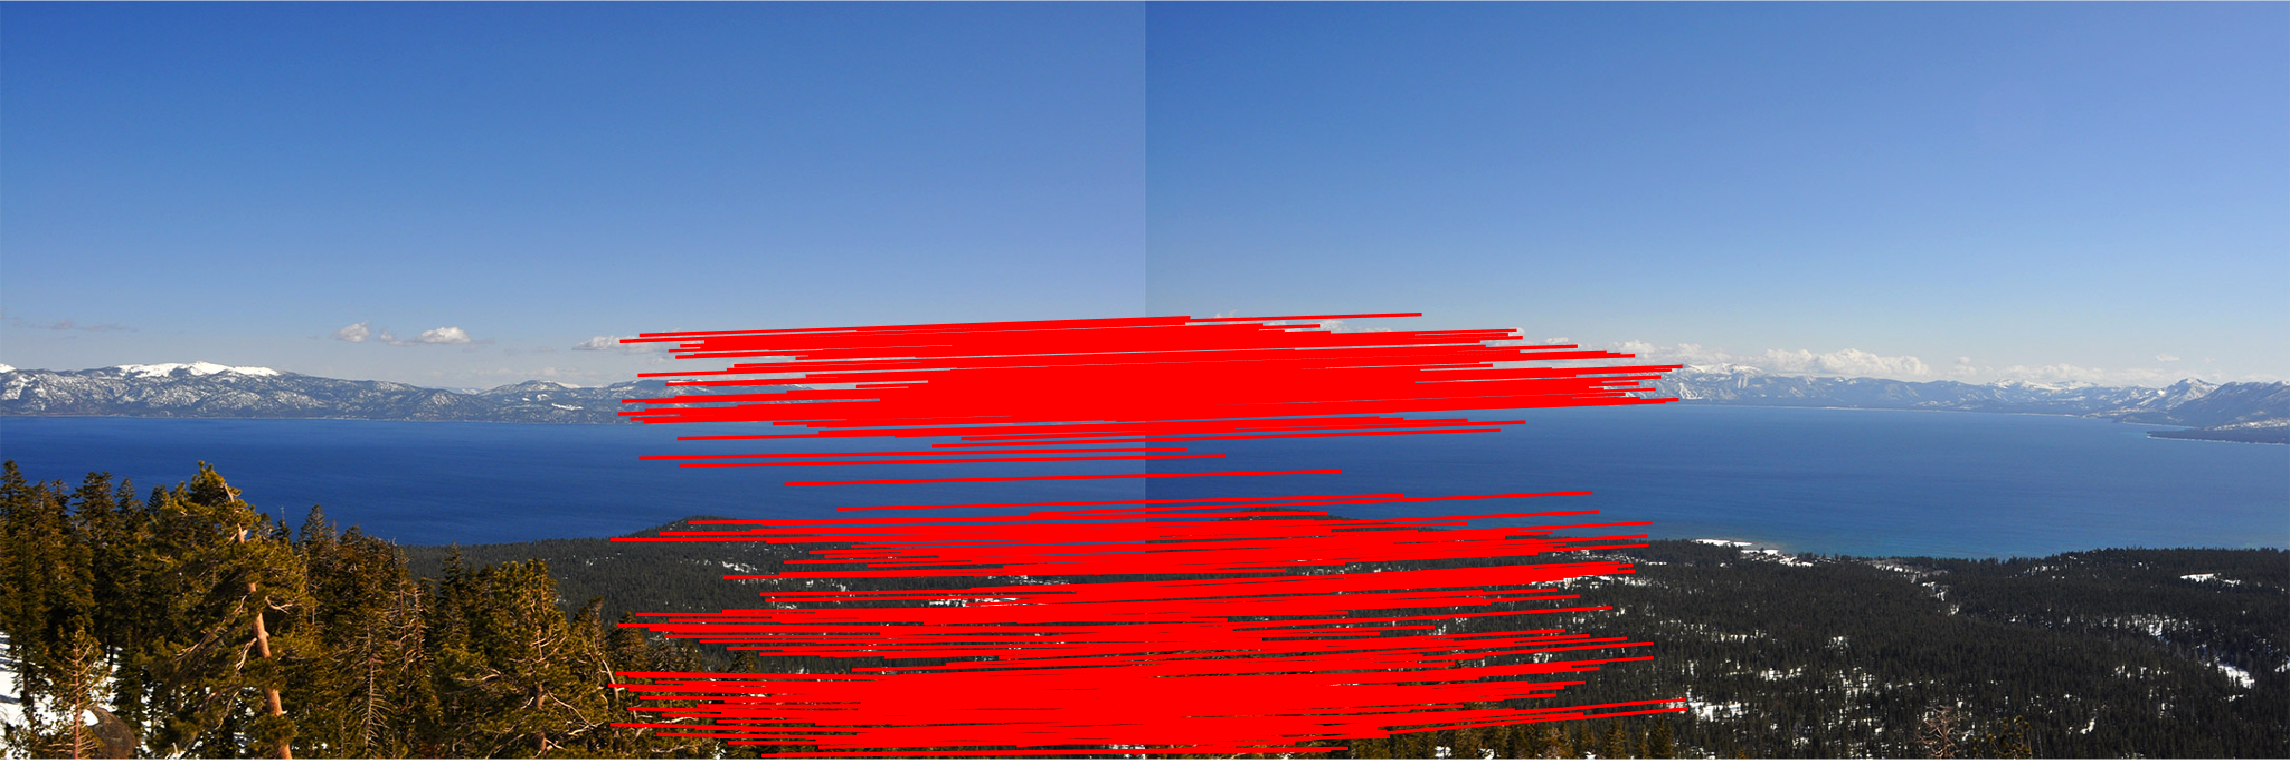
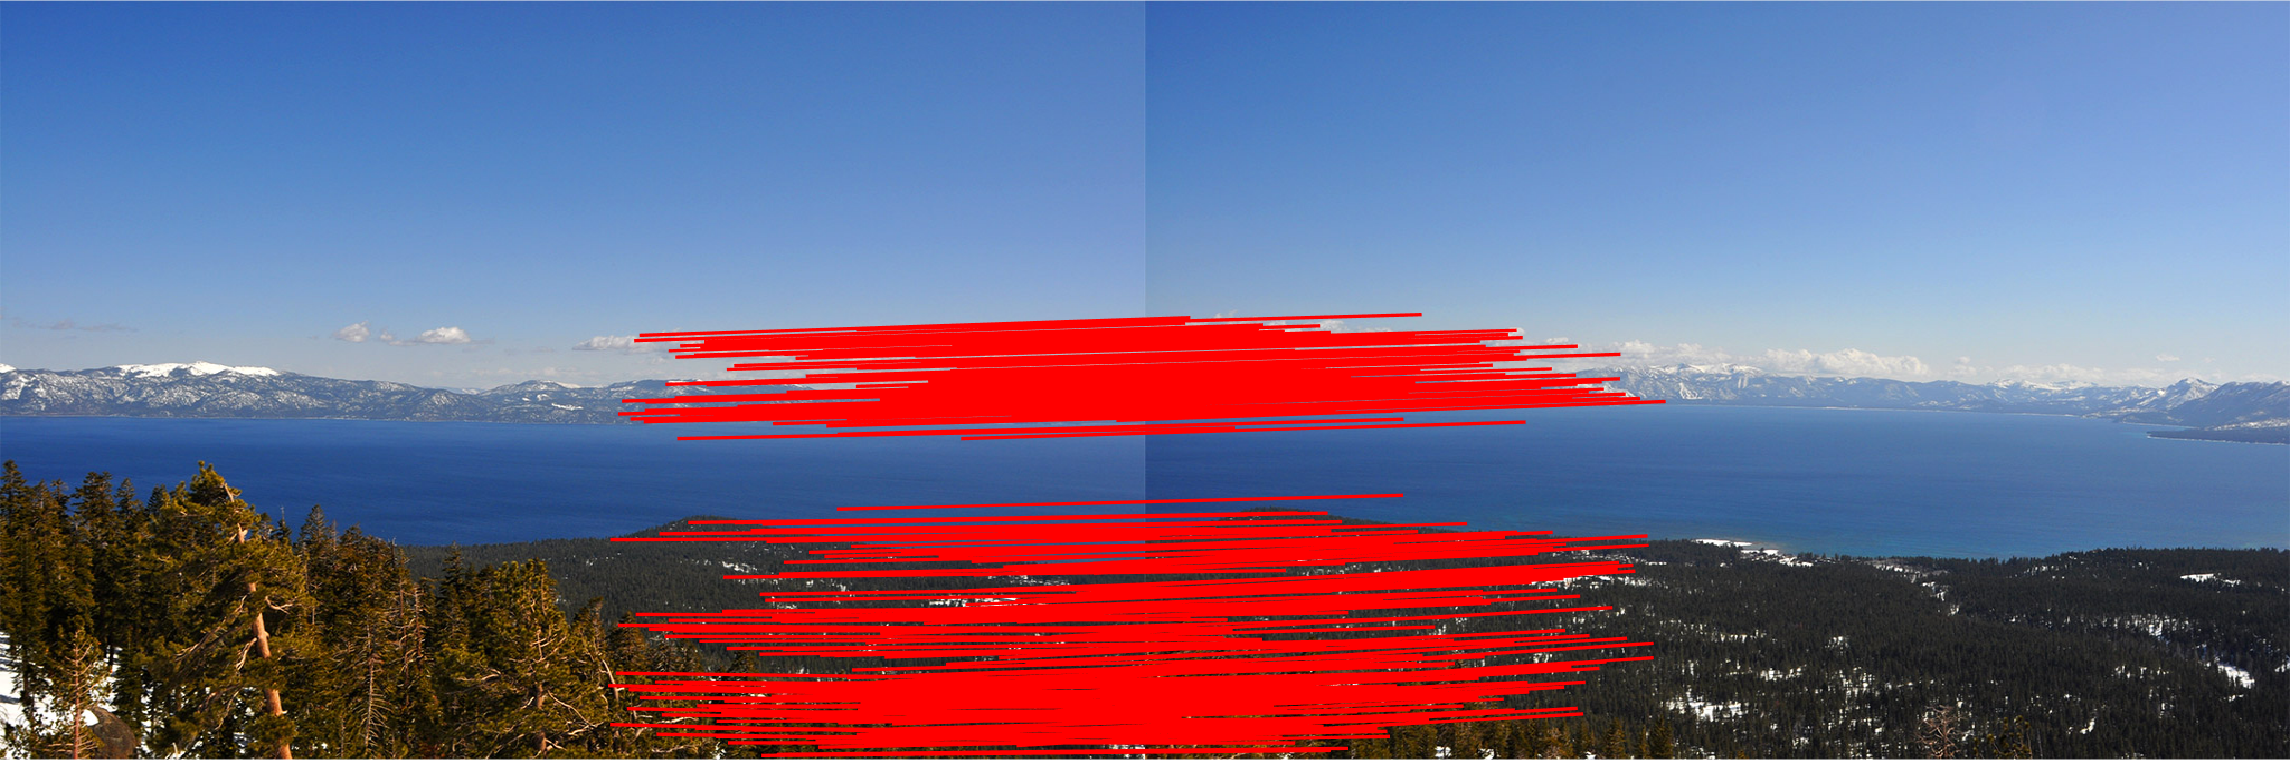
Updated RANSAC parameters to make it faster. Added README

diff --git a/Assignments/HW4/src/computeHomography.m b/Assignments/HW4/src/computeHomography.m
@@ -1,8 +1,5 @@
 function H_3x3 = computeHomography(src_pts_nx2, dest_pts_nx2)
-    % Swap x, y with y, x due to MATLAB convention
-%     src_pts_nx2 = src_pts_nx2(:, [2, 1]);
-%     dest_pts_nx2 = dest_pts_nx2(:, [2, 1]);
-    
+
     sub_col_1to3 = horzcat(src_pts_nx2, ones(4, 1));
     zeros_1to3 = zeros(4, 3);
     % The below statement interleaves rows of two matrices
@@ -23,11 +20,12 @@ function H_3x3 = computeHomography(src_pts_nx2, dest_pts_nx2)
     
     col_9 = reshape([xd(:) yd(:)]', 2 * size(xd, 1), []);
     
-    format shortG
+    % format shortG     % this ensures numbers are printed with their
+    % actual values and not in scientific notation
     A = horzcat(col_1to3, col_4to6, -1 .* col_7, -1 .* col_8, -1 .* col_9);
     
     [V, ~] = eig(A' * A);
-    % fprintf("L2 norm of first eig vec: %f\n", norm(V(:, 1)));
+
     % Each consecutive 3 values correspond to a row. Reshape and transpose
     % to obtain the same
     H_3x3 = reshape(V(:, 1), 3, 3)';

diff --git a/Assignments/HW4/src/runHw4.m b/Assignments/HW4/src/runHw4.m
@@ -123,8 +123,8 @@ before_img = showCorrespondence(imgs, imgd, xs, xd);
 imwrite(before_img, 'before_ransac.png');
 
 % Use RANSAC to reject outliers
-ransac_n = 200;      % Max number of iteractions
-ransac_eps = 10;   % Acceptable alignment error 
+ransac_n = 30;      % Max number of iteractions
+ransac_eps = 2;   % Acceptable alignment error 
 
 [inliers_id, H_3x3] = runRANSAC(xs, xd, ransac_n, ransac_eps);
 

diff --git a/Assignments/HW4/src/stitchImg.m b/Assignments/HW4/src/stitchImg.m
@@ -1,7 +1,7 @@
 function stitched_img = stitchImg(varargin)
     % RANSAC parameters:
-    ransac_n = 200;         % Max number of iteractions
-    ransac_eps = 10;        % Acceptable alignment error 
+    ransac_n = 30;         % Max number of iteractions
+    ransac_eps = 2;        % Acceptable alignment error 
 
     reference_img = varargin{ceil(nargin / 2)};
     for img_idx = 1 : nargin

diff --git a/Assignments/HW4/src/README.md b/Assignments/HW4/src/README.md
@@ -1,0 +1,22 @@
+# Computer Vision, Spring 2019
+## Homework 4 - `Image Mosaicking App`
+### Challenge 1a - [Homography](https://en.wikipedia.org/wiki/Homography_(computer_vision)):
+Computes Homography, `H`, which relates the transformation of a source image to a destination image. Given a homography, `H`, for every source point `p<sub>s</sub>`, the corresponding destination point, `p<sub>d</sub>` is given by `p<sub>d</sub> = H * p<sub>s</sub>`.
+
+### Challenge 1b - Warping an Image to Canvas:
+Given a source image and the result to source homography, this routine transforms the source image and warps it onto the canvas. After tranformation, there might be some places in the destination which might not have corresponded to any pixel due to stretching. Hence, it also uses `interp2` inbuilt function to interpolate the missing pixels.
+
+### Challenge 1c - [RANSAC](https://en.wikipedia.org/wiki/Random_sample_consensus):
+To compute homography between two adjacent images which are to be stitched, we need some corresponding matching point coordinates. We can use [SIFT](https://en.wikipedia.org/wiki/Scale-invariant_feature_transform) algorithm to generate the same. But, SIFT produces lot of points which appear similar but might just be noise. _RANdom SAmple Consensus_ algorithm is then used to get rid of the outliers and only plot corresponding matching points in two images.
+
+### Challenge 1d - Blending:
+Inorder to remove sharp boundaries in the panorama after stitching images, the images are combined using _Weighted Blending_ technique. In this technique, a weighted mask is used in which pixels closer to the edge get a lower weight. An inbuilt function, `bwdist` is used for this purpose. 
+
+### Challenge 1(e, f) - Stitching Images:
+All the subroutines written above are called to build the panorama. This method accepts arbitrary number of images and aligns them to stitch into a panorama.
+
+Here are some beautiful sample panoramas created by this tool:
+
+![Mountains](mountain_panorama.png?raw=true "Mountains")
+
+![Manhattan Skyline](manhattan_panorama.png?raw=true "Manhattan Skyline")
